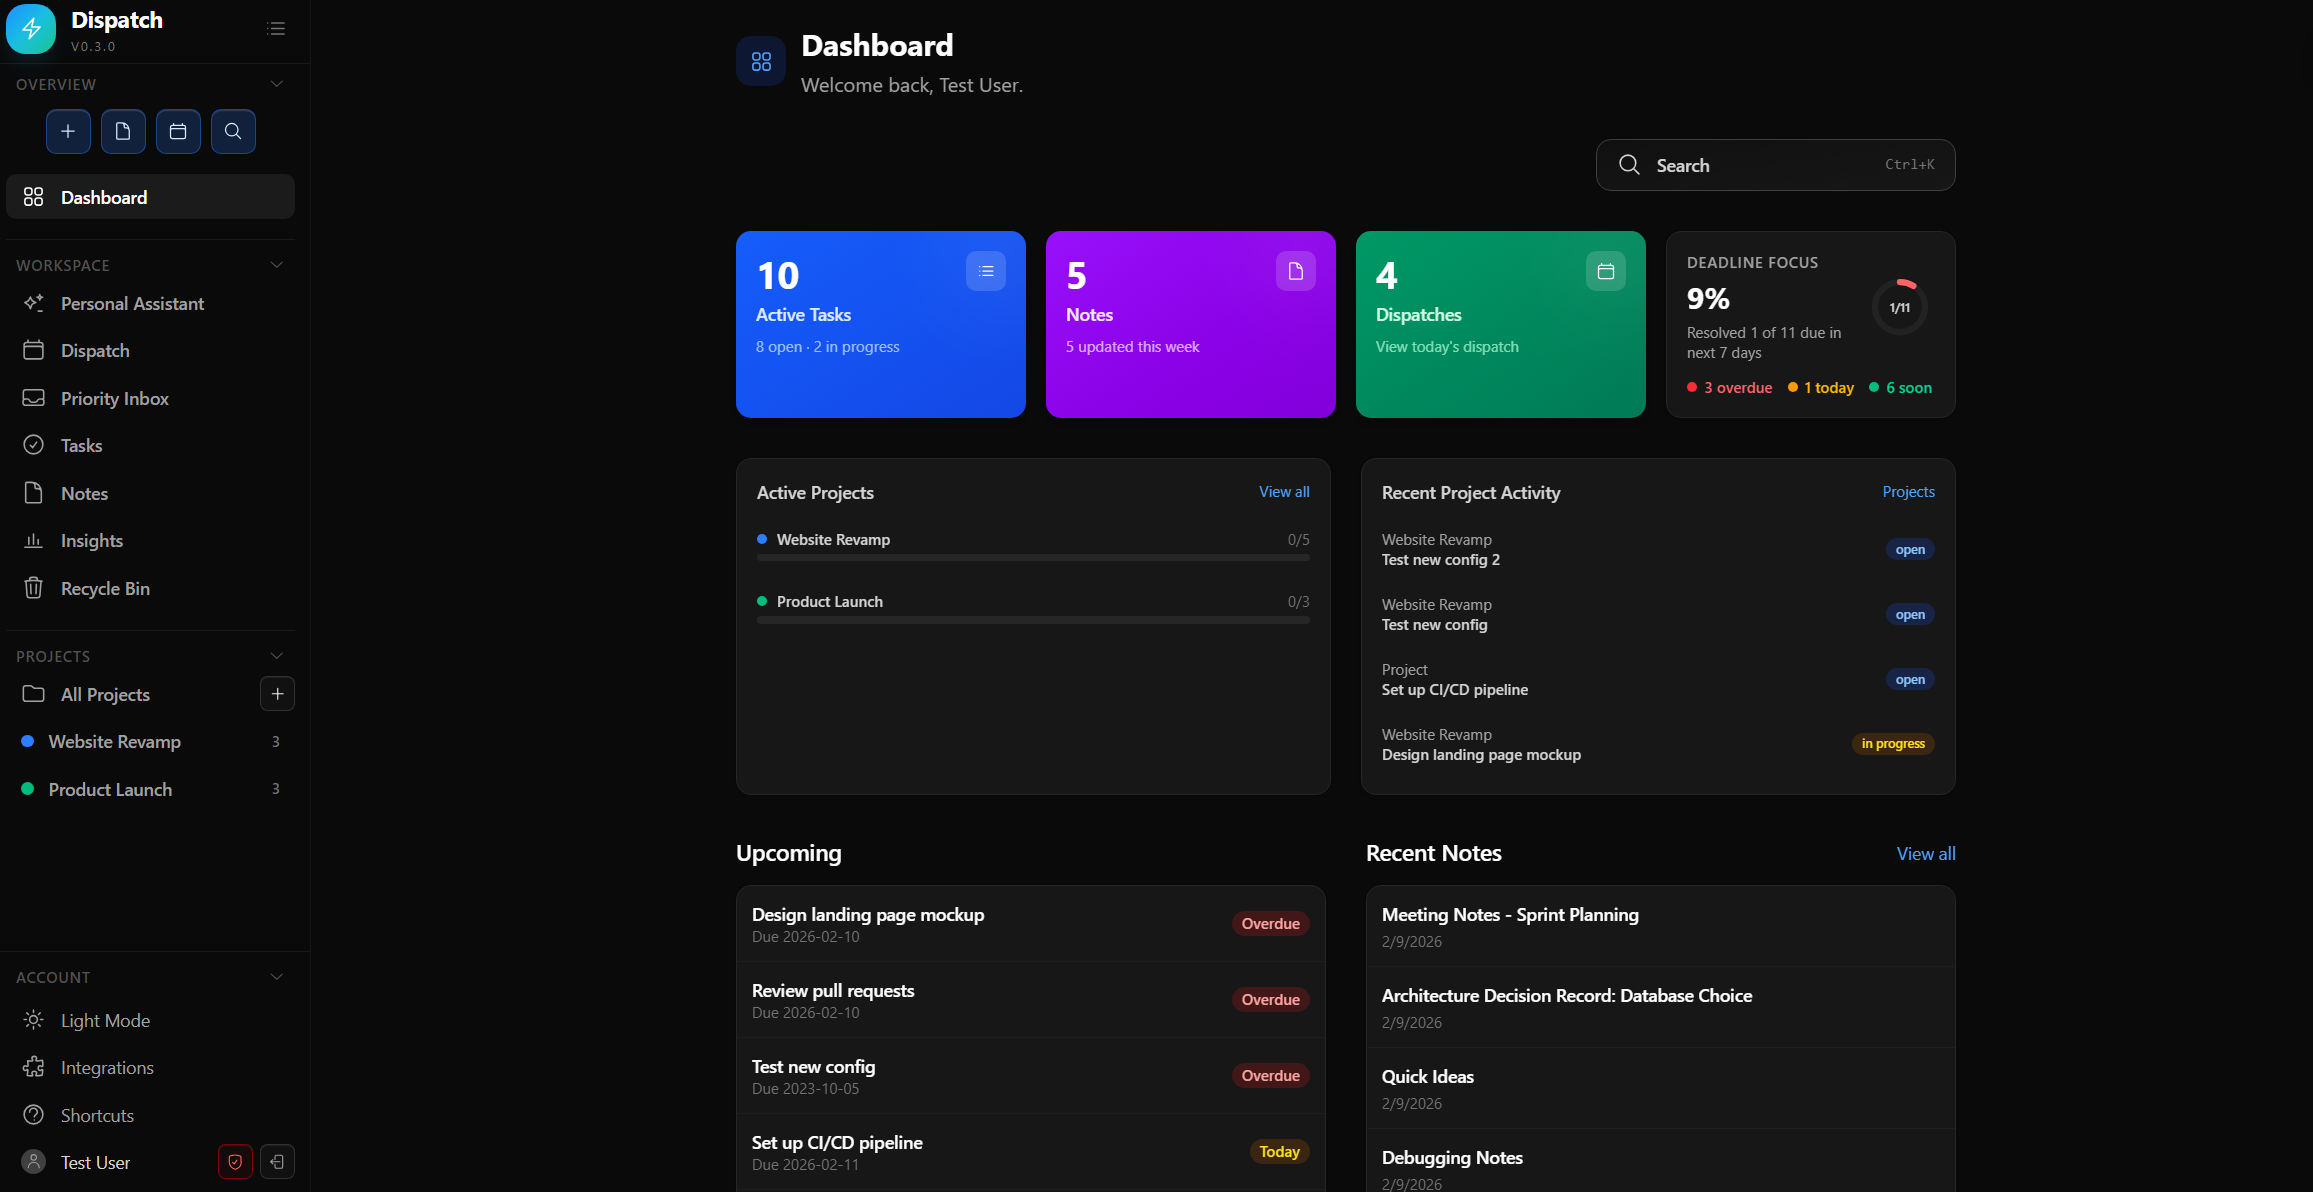
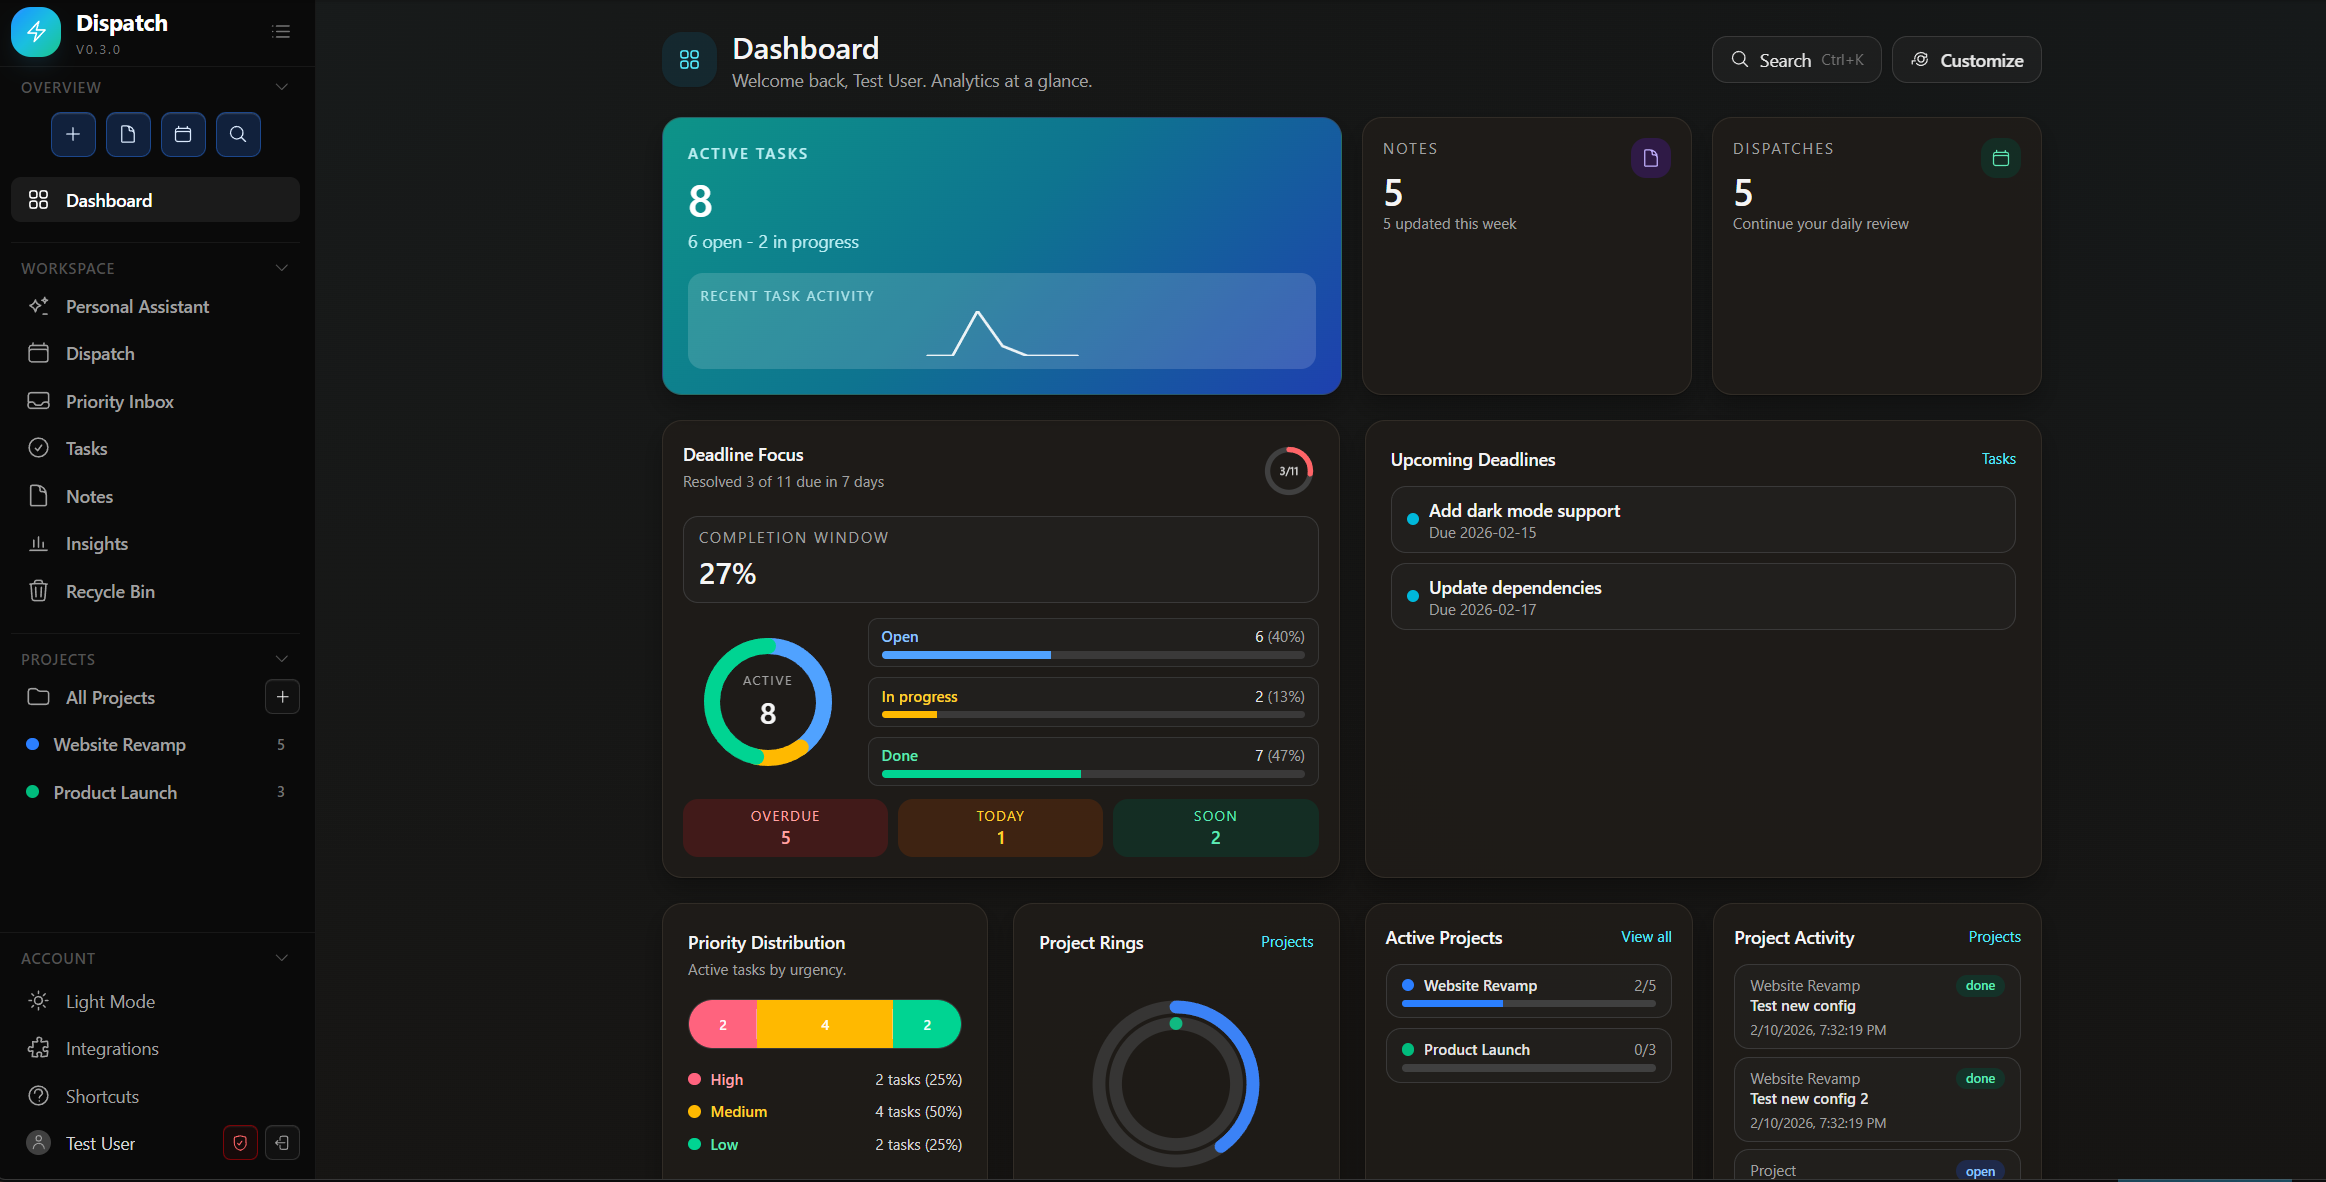
misc

diff --git a/src/components/Dashboard.tsx b/src/components/Dashboard.tsx
@@ -16,7 +16,6 @@ import { DashboardCustomizePanel } from "@/components/dashboard/DashboardCustomi
 import { PriorityDistribution } from "@/components/dashboard/PriorityDistribution";
 import { ProjectProgressRings } from "@/components/dashboard/ProjectProgressRings";
 import { TaskStatusDonut } from "@/components/dashboard/TaskStatusDonut";
-import { WeeklyTrendChart } from "@/components/dashboard/WeeklyTrendChart";
 import {
   IconCalendar,
   IconCog,
@@ -35,12 +34,10 @@ const STATUS_BADGES: Record<TaskStatus, string> = {
 const WIDGET_SPAN_CLASSES: Record<DashboardWidgetId, string> = {
   "hero-stats": "xl:col-span-4",
   "task-donut": "xl:col-span-2",
-  "weekly-trend": "xl:col-span-2",
+  upcoming: "xl:col-span-2",
   "priority-dist": "xl:col-span-1",
   "project-rings": "xl:col-span-1",
   "project-signals": "xl:col-span-2",
-  upcoming: "xl:col-span-2",
-  "recent-notes": "xl:col-span-2",
   "recent-activity": "xl:col-span-4",
 };
 
@@ -69,7 +66,6 @@ type WidgetData = {
   overdueCount: number;
   dueTodayCount: number;
   dueSoonCount: number;
-  dailyPoints: ReturnType<typeof buildDailyPoints>;
   priorityCounts: { high: number; medium: number; low: number };
   topProjects: ProjectWithStats[];
   recentProjectActivity: Array<{
@@ -80,7 +76,6 @@ type WidgetData = {
     updatedAt: string;
   }>;
   upcoming: Task[];
-  recentNotes: Note[];
   recentTaskActivity: ActivityItem[];
   recentNoteActivity: ActivityItem[];
 };
@@ -157,10 +152,6 @@ export function Dashboard({ userName }: { userName: string }) {
   const notesThisWeek = notes.filter(
     (note) => new Date(note.updatedAt).getTime() >= weekStart.getTime(),
   ).length;
-
-  const recentNotes = [...notes]
-    .sort((a, b) => b.updatedAt.localeCompare(a.updatedAt))
-    .slice(0, 4);
 
   const recentActivity: ActivityItem[] = [
     ...tasks.map((task) => ({
@@ -260,12 +251,10 @@ export function Dashboard({ userName }: { userName: string }) {
     overdueCount: overdue.length,
     dueTodayCount: dueToday.length,
     dueSoonCount: dueSoon.length,
-    dailyPoints,
     priorityCounts,
     topProjects,
     recentProjectActivity,
     upcoming,
-    recentNotes,
     recentTaskActivity,
     recentNoteActivity,
   };
@@ -285,8 +274,6 @@ export function Dashboard({ userName }: { userName: string }) {
             <div className="h-56 rounded-3xl skeleton-shimmer" />
             <div className="h-56 rounded-3xl skeleton-shimmer" />
             <div className="h-56 rounded-3xl skeleton-shimmer xl:col-span-2" />
-            <div className="h-60 rounded-3xl skeleton-shimmer xl:col-span-2" />
-            <div className="h-60 rounded-3xl skeleton-shimmer xl:col-span-2" />
             <div className="h-52 rounded-3xl skeleton-shimmer xl:col-span-4" />
           </div>
         </div>
@@ -461,16 +448,6 @@ function DashboardWidget({
           </div>
         </section>
       );
-    case "weekly-trend":
-      return (
-        <section className="dashboard-card dashboard-card-interactive h-full p-5">
-          <div className="mb-3 flex items-center justify-between gap-2">
-            <h2 className="text-sm font-semibold text-neutral-800 dark:text-neutral-100">Weekly Trend</h2>
-            <span className="text-xs text-neutral-500 dark:text-neutral-400">7 days</span>
-          </div>
-          <WeeklyTrendChart points={data.dailyPoints} />
-        </section>
-      );
     case "priority-dist":
       return (
         <section className="dashboard-card dashboard-card-interactive h-full p-5">
@@ -580,33 +557,6 @@ function DashboardWidget({
             <div className="space-y-2">
               {data.upcoming.map((task, index) => (
                 <DueItem key={task.id} task={task} index={index} />
-              ))}
-            </div>
-          )}
-        </section>
-      );
-    case "recent-notes":
-      return (
-        <section className="dashboard-card dashboard-card-interactive h-full p-5">
-          <div className="mb-3 flex items-center justify-between">
-            <h2 className="text-sm font-semibold text-neutral-800 dark:text-neutral-100">Recent Notes</h2>
-            <Link href="/notes" className="text-xs text-cyan-700 hover:underline dark:text-cyan-300">Notes</Link>
-          </div>
-          {data.recentNotes.length === 0 ? (
-            <div className="rounded-xl border border-dashed border-neutral-300/80 bg-white/65 p-8 text-center text-sm text-neutral-500 dark:border-neutral-600/80 dark:bg-neutral-800/35 dark:text-neutral-400">
-              No notes yet.
-            </div>
-          ) : (
-            <div className="space-y-2">
-              {data.recentNotes.map((note) => (
-                <Link
-                  key={note.id}
-                  href={`/notes/${note.id}`}
-                  className="block rounded-xl border border-neutral-200/70 bg-white/70 px-3 py-2.5 transition-colors hover:bg-white/95 dark:border-neutral-700/80 dark:bg-neutral-800/35 dark:hover:bg-neutral-800/55"
-                >
-                  <p className="truncate text-sm font-medium text-neutral-800 dark:text-neutral-100">{note.title}</p>
-                  <p className="mt-1 text-xs text-neutral-500 dark:text-neutral-400">{new Date(note.updatedAt).toLocaleDateString()}</p>
-                </Link>
               ))}
             </div>
           )}

diff --git a/src/lib/dashboard-layout.ts b/src/lib/dashboard-layout.ts
@@ -4,13 +4,11 @@ import { useCallback, useEffect, useMemo, useState } from "react";
 
 export type DashboardWidgetId =
   | "hero-stats"
-  | "weekly-trend"
   | "task-donut"
+  | "upcoming"
   | "priority-dist"
   | "project-signals"
   | "project-rings"
-  | "upcoming"
-  | "recent-notes"
   | "recent-activity";
 
 export type DashboardWidgetDefinition = {
@@ -29,7 +27,7 @@ type StoredDashboardLayout = {
   visibility?: Record<string, boolean>;
 };
 
-const STORAGE_KEY = "dispatch.dashboard.layout.v1";
+const STORAGE_KEY = "dispatch.dashboard.layout.v2";
 
 export const DASHBOARD_WIDGET_REGISTRY: DashboardWidgetDefinition[] = [
   {
@@ -45,9 +43,9 @@ export const DASHBOARD_WIDGET_REGISTRY: DashboardWidgetDefinition[] = [
     defaultVisible: true,
   },
   {
-    id: "weekly-trend",
-    label: "Weekly Trend",
-    description: "Created vs completed activity over the last 7 days.",
+    id: "upcoming",
+    label: "Upcoming Deadlines",
+    description: "Overdue, today, and next-up due dates.",
     defaultVisible: true,
   },
   {
@@ -66,18 +64,6 @@ export const DASHBOARD_WIDGET_REGISTRY: DashboardWidgetDefinition[] = [
     id: "project-signals",
     label: "Project Signals",
     description: "Active projects and recent project-linked task changes.",
-    defaultVisible: true,
-  },
-  {
-    id: "upcoming",
-    label: "Upcoming Deadlines",
-    description: "Overdue, today, and next-up due dates.",
-    defaultVisible: true,
-  },
-  {
-    id: "recent-notes",
-    label: "Recent Notes",
-    description: "Most recently edited notes in your workspace.",
     defaultVisible: true,
   },
   {
